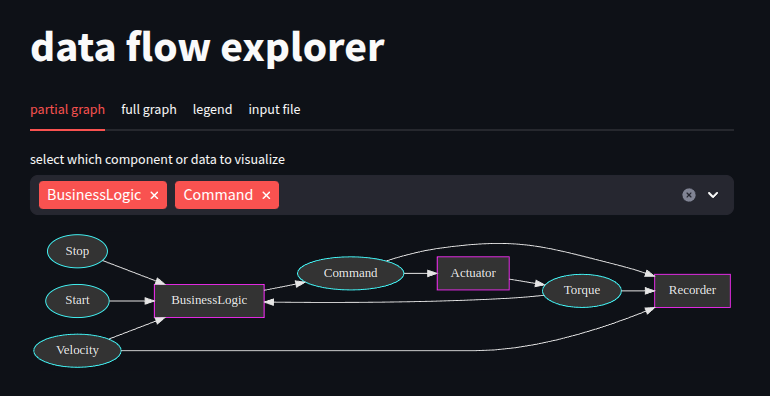
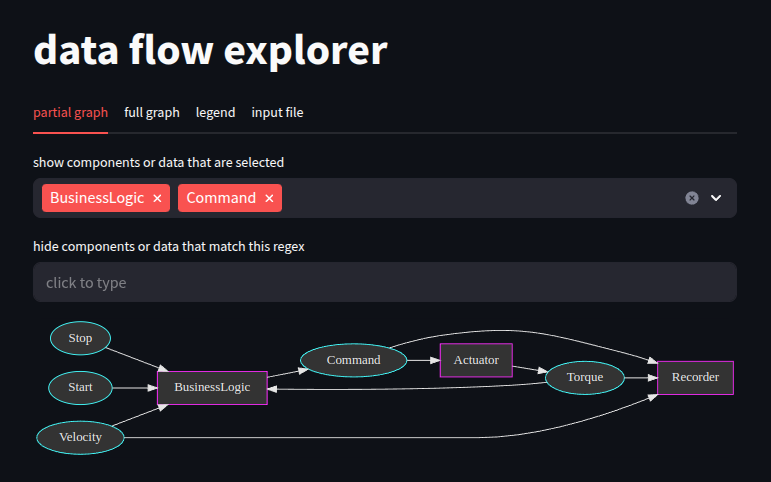
Add text input to hide elements matching regex

diff --git a/data_flow_explorer.py b/data_flow_explorer.py
@@ -3,6 +3,7 @@ import collections
 import graphviz as gv
 import json
 import jsonschema
+import re
 import streamlit as sl
 import tempfile
 
@@ -118,14 +119,17 @@ def visualize_graph(visualized_options: list, data_flow: dict):
     for item in data_flow:
         if item[COMPONENT] in visualized_options:
             G.node(item[COMPONENT], shape="box", color="magenta")
-            for input in item[INPUTS]:
-                if input in visualized_options:
-                    G.node(input, shape="ellipse", color="cyan")
-                    G.edge(input, item[COMPONENT])
-            for output in item[OUTPUTS]:
-                if output in visualized_options:
-                    G.node(output, shape="ellipse", color="cyan")
-                    G.edge(item[COMPONENT], output)
+        for input in item[INPUTS]:
+            if input in visualized_options:
+                G.node(input, shape="ellipse", color="cyan")
+            if item[COMPONENT] in visualized_options and input in visualized_options:
+                G.edge(input, item[COMPONENT])
+        for output in item[OUTPUTS]:
+            if output in visualized_options:
+                G.node(output, shape="ellipse", color="cyan")
+            if item[COMPONENT] in visualized_options and output in visualized_options:
+                G.edge(item[COMPONENT], output)
+
     with tempfile.TemporaryDirectory() as temporary_directory:
         sl.image(G.render(directory=temporary_directory), use_container_width=True)
 
@@ -147,10 +151,15 @@ def visualize(data_flow: dict, file_path: str):
     with tab_partial:
         selected_options = set(
             sl.multiselect(
-                label="select which component or data to visualize",
+                label="show components or data that are selected",
                 options=all_options,
                 placeholder="click to select",
             )
+        )
+
+        hide_regex = sl.text_input(
+            label="hide components or data that match this regex",
+            placeholder="click to type",
         )
 
         visualized_options = selected_options.copy()
@@ -163,9 +172,16 @@ def visualize(data_flow: dict, file_path: str):
                 if item[COMPONENT] in selected_options or output in selected_options:
                     visualized_options.add(item[COMPONENT])
                     visualized_options.add(output)
+
+        if hide_regex:
+            hide_regex = re.compile(hide_regex)
+            visualized_options = [
+                option for option in visualized_options if not hide_regex.search(option)
+            ]
+
         visualize_graph(visualized_options, data_flow)
 
-    with tab_full:        
+    with tab_full:
         visualize_graph(all_options, data_flow)
 
     with tab_legend:
